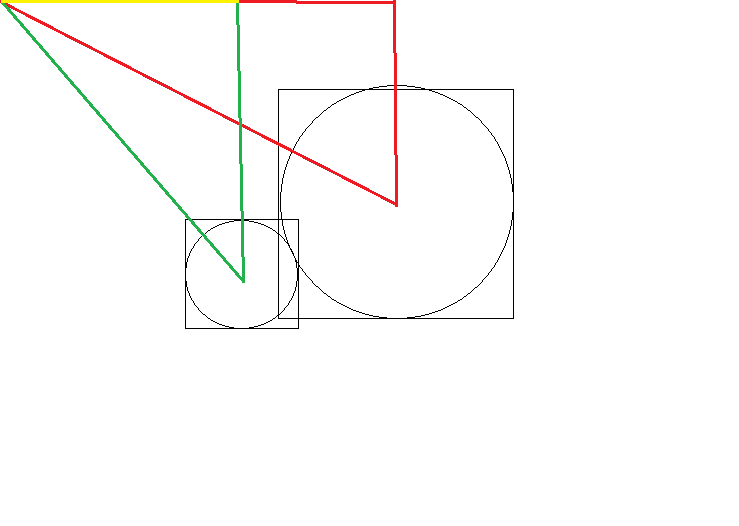
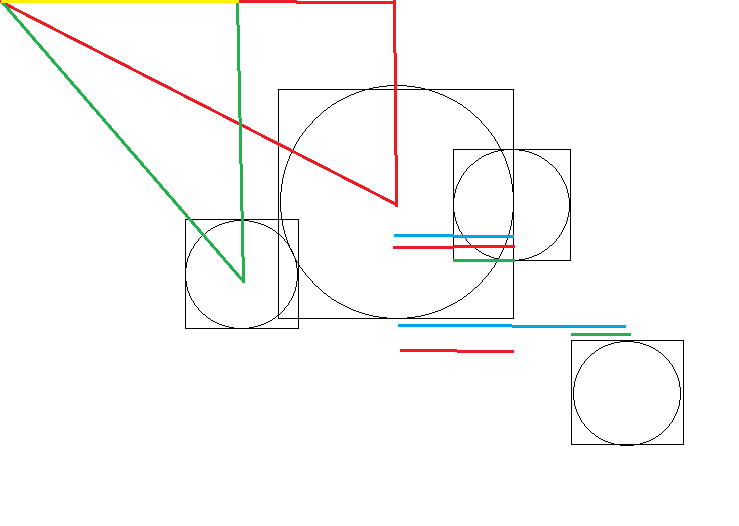
fixed collision formula

diff --git a/src/rpg_stub/Board.java b/src/rpg_stub/Board.java
@@ -46,6 +46,7 @@ public class Board extends JPanel implements ActionListener {
         activemap = new Map(0,0,"resources/map_01_devtest.png");
         
         objects.add(new GameObject("Tree01", 175, 175, "resources/collision_object_debug_100px.png", true, 0, 0, 40));
+        objects.add(new GameObject("Tree02", 100, 175, "resources/collision_object_debug_100px.png", true, 0, 0, 40));
 
         timer = new Timer(DELAY, this);
         timer.start();
@@ -125,17 +126,14 @@ public class Board extends JPanel implements ActionListener {
 
     public void checkCollisions() {
     	for(GameObject obj : objects) {
-        	if(obj.sprite.isVisible()) {
+        	if(obj.collision = true) {
         		double dist = Math.sqrt(Math.pow((player.getColX() - obj.getColX()), 2) + Math.pow((player.getColY() - obj.getColY()),2));
-        		dist -= player.getColRadius();
-        		dist -= obj.getColRadius();
-        		if(dist < 0) {
-        			float radius = obj.getColRadius() + player.getColRadius();
-        			float difX = (radius/(player.getColX() - obj.getColX()));
-        			System.out.println(difX);
-        			float difY = (radius/(player.getColY() - obj.getColY()));
-        			//System.out.println(difY);
-        			player.setPos((int) (player.getColX() + difX),(int) (player.getColY() + difY));
+        		double overlap = dist;
+        		overlap -= player.getColRadius();
+        		overlap -= obj.getColRadius();
+        		if(overlap < 0) {
+        			player.x -= overlap * (player.x - obj.x)/dist;
+        			player.y -= overlap * (player.y - obj.y)/dist;
         		}
         	}
         }
